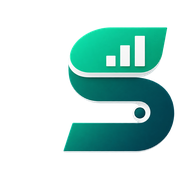
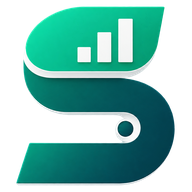
stable version 159

diff --git a/index.html b/index.html
@@ -4,7 +4,7 @@
 <meta charset="utf-8">
 <meta name="viewport" content="width=device-width, initial-scale=1">
 <meta name="theme-color" content="#0f766e">
-<title>SINOP v158 · iPhone Home Screen Launch Fix</title>
+<title>SINOP v159 · iPhone Home Screen Launch Fix</title>
 <meta name="application-name" content="SINOP">
 <meta name="apple-mobile-web-app-title" content="SINOP">
 <meta name="description" content="SINOP — your personal money system for income, spending, savings, investments, goals, KKB, and financial tracking.">
@@ -7217,12 +7217,12 @@ body[data-theme="dark"] .barkada-group-btn,body[data-theme="dark"] .barkada-memb
       </div>
 
       <article class="version-latest-card">
-        <div class="version-latest-badge"><span>Latest</span><strong>v158</strong></div>
+        <div class="version-latest-badge"><span>Latest</span><strong>v159</strong></div>
         <div class="version-latest-copy"><span>September 4, 2026</span><h3>New SINOP App Identity</h3><p>SINOP now uses the new growth-wallet S mark throughout the app shell, login, browser favicon, iPhone Home Screen icon, PWA manifest, and push notifications.</p></div>
       </article>
 
       <div class="version-timeline" id="versionTimeline">
-        <article class="version-entry is-latest" data-version="v158" data-date="September 4, 2026"><div class="version-node"><span></span></div><div class="version-entry-card"><header><div><span>v158</span><h3>New SINOP App Identity</h3></div><time>Sep 4, 2026</time></header><ul><li>Replaced the old hard-coded S logo in login, sidebar, and mobile header with the new growth-wallet SINOP mark.</li><li>Updated browser favicon, iPhone Home Screen icon, PWA 192×192 and 512×512 icons, and notification icon assets.</li><li>Preserved the new logo proportions with transparent padding instead of stretching it into a square.</li><li>Retained the iPhone Home Screen and actionable recurring-notification fixes from v156.</li></ul></div></article>
+        <article class="version-entry is-latest" data-version="v159" data-date="September 4, 2026"><div class="version-node"><span></span></div><div class="version-entry-card"><header><div><span>v159</span><h3>New SINOP App Identity</h3></div><time>Sep 4, 2026</time></header><ul><li>Replaced the old hard-coded S logo in login, sidebar, and mobile header with the new growth-wallet SINOP mark.</li><li>Updated browser favicon, iPhone Home Screen icon, PWA 192×192 and 512×512 icons, and notification icon assets.</li><li>Preserved the new logo proportions with transparent padding instead of stretching it into a square.</li><li>Retained the iPhone Home Screen and actionable recurring-notification fixes from v156.</li></ul></div></article>
         <article class="version-entry is-latest" data-version="v155" data-date="September 4, 2026"><div class="version-node"><span></span></div><div class="version-entry-card"><header><div><span>v155</span><h3>iPhone Recurring Notification Tap Action</h3></div><time>Sep 4, 2026</time></header><ul><li>iPhone recurring-expense notifications now use the whole notification as the payment shortcut.</li><li>Tapping the notification opens the exact unpaid occurrence in SINOP and launches the existing payment confirmation sheet.</li><li>Browsers with Web Notification action-button support keep the separate Paid action.</li><li>No payment is silently posted: SINOP still confirms the payment source before changing the ledger.</li></ul></div></article>
         <article class="version-entry" data-version="v154" data-date="September 4, 2026"><div class="version-node"><span></span></div><div class="version-entry-card"><header><div><span>v154</span><h3>Actionable Recurring Notifications</h3></div><time>Sep 4, 2026</time></header><ul><li>Added a Paid action to eligible recurring-expense system notifications.</li><li>Tapping Paid opens the exact unpaid occurrence in the recurring-payment confirmation instead of guessing a payment source.</li><li>Linked credit cards and the configured default spending account are preselected by the existing payment workflow.</li><li>Added the same Paid shortcut to the in-app reminder center for consistency.</li><li>Added a companion service worker that handles notification actions and can route the user back into the correct recurring payment even when SINOP is not already open.</li></ul></div></article>
         <article class="version-entry" data-version="v153" data-date="September 4, 2026"><div class="version-node"><span></span></div><div class="version-entry-card"><header><div><span>v153</span><h3>Authentic Mobile Account Cards</h3></div><time>Sep 4, 2026</time></header><ul><li>Removed generated/fabricated last-four digits from every mobile account card.</li><li>Replaced the broken CSS contactless mark with a proper NFC/contactless SVG positioned beside the chip.</li><li>Top-right card content now shows only the real account currency instead of an ambiguous icon.</li><li>Preserved the circular wheel, tight spacing, fading/blurred rear cards, momentum, and spring snapping.</li></ul></div></article>
